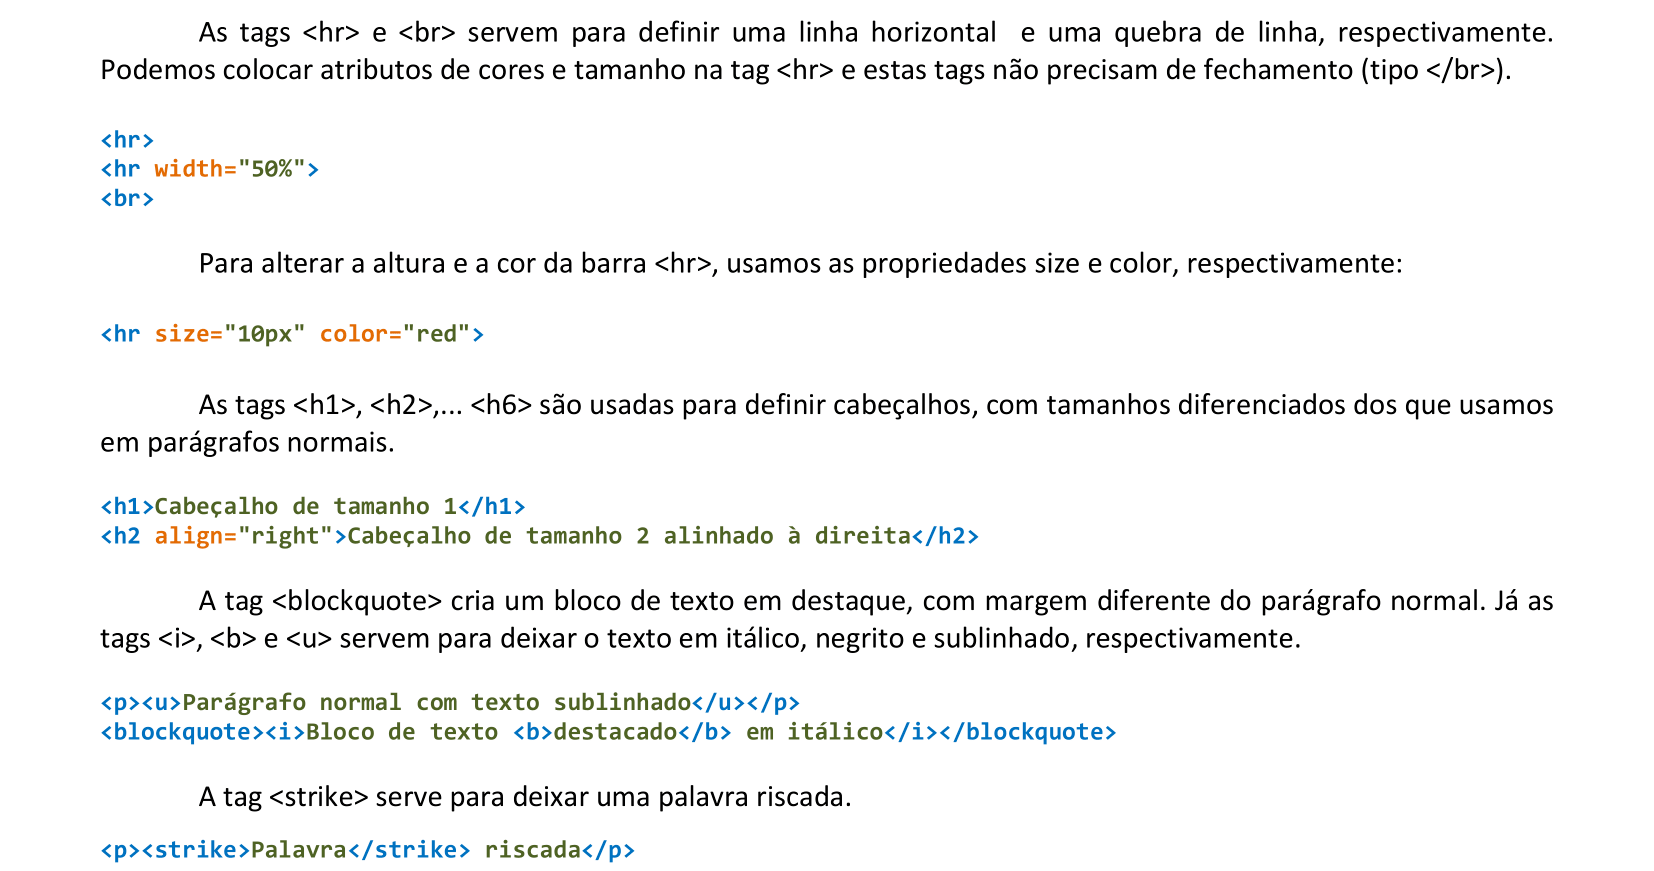
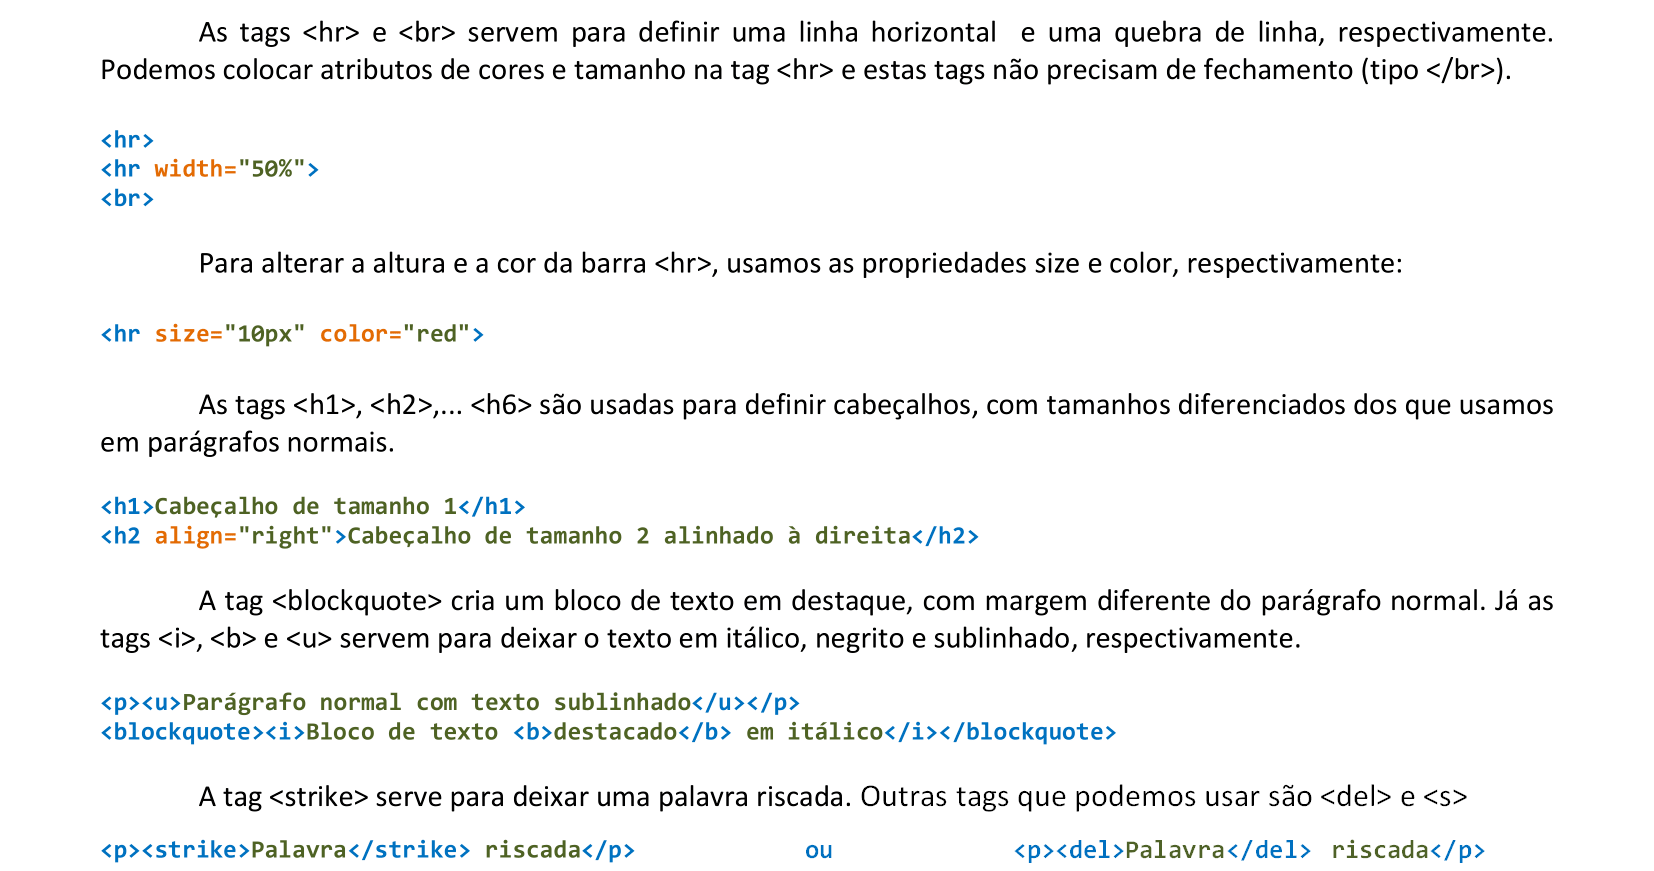
update

Changed region(s): [[0.5242, 0.899, 0.8942, 0.93], [0.6167, 0.961, 0.8942, 0.992], [0.4933, 0.961, 0.5242, 0.992]]

diff --git a/README.md b/README.md
@@ -274,7 +274,7 @@ Código estrutural de uma página HTML:
   dui, dictum maximus turpis &lt;font color="green" size="3"&gt;tristique at&lt;/font&gt;. Vivamus cursus, leo ac 
   sagittis blandit, est sem lacinia nibh, id sagittis ipsum dui facilisis augue. Fusce at nulla et justo 
   lacinia egestas in eu ante. Fusce lacinia pulvinar urna ut venenatis. Fusce ac lorem eget tellus 
-  malesuada lobortis nec in neque. <a alt="destaque de trecho riscado">&lt;strike&gt;Sed sit amet pharetra leo.&lt;/strike&gt;</a>&lt;/p&gt;
+  malesuada lobortis nec in neque. <a alt="destaque de trecho riscado">&lt;del&gt;Sed sit amet pharetra leo.&lt;/del&gt;</a>&lt;/p&gt;
 <a alt="barra separadora de conteúdos: vermelha, com largura de 50%, altura de 10px">&lt;hr width="50%" size="10px" color="red"&gt;</a>
 <a alt="título com tamanho 3&#10;h1 | h2 | h3 | h4 | h5 | h6">&lt;h3&gt;Título da seção&lt;/h3&gt;</a>
   &lt;p&gt;Proin finibus diam at imperdiet condimentum. Nullam at dolor dolor. Phasellus a nisi id enim 
